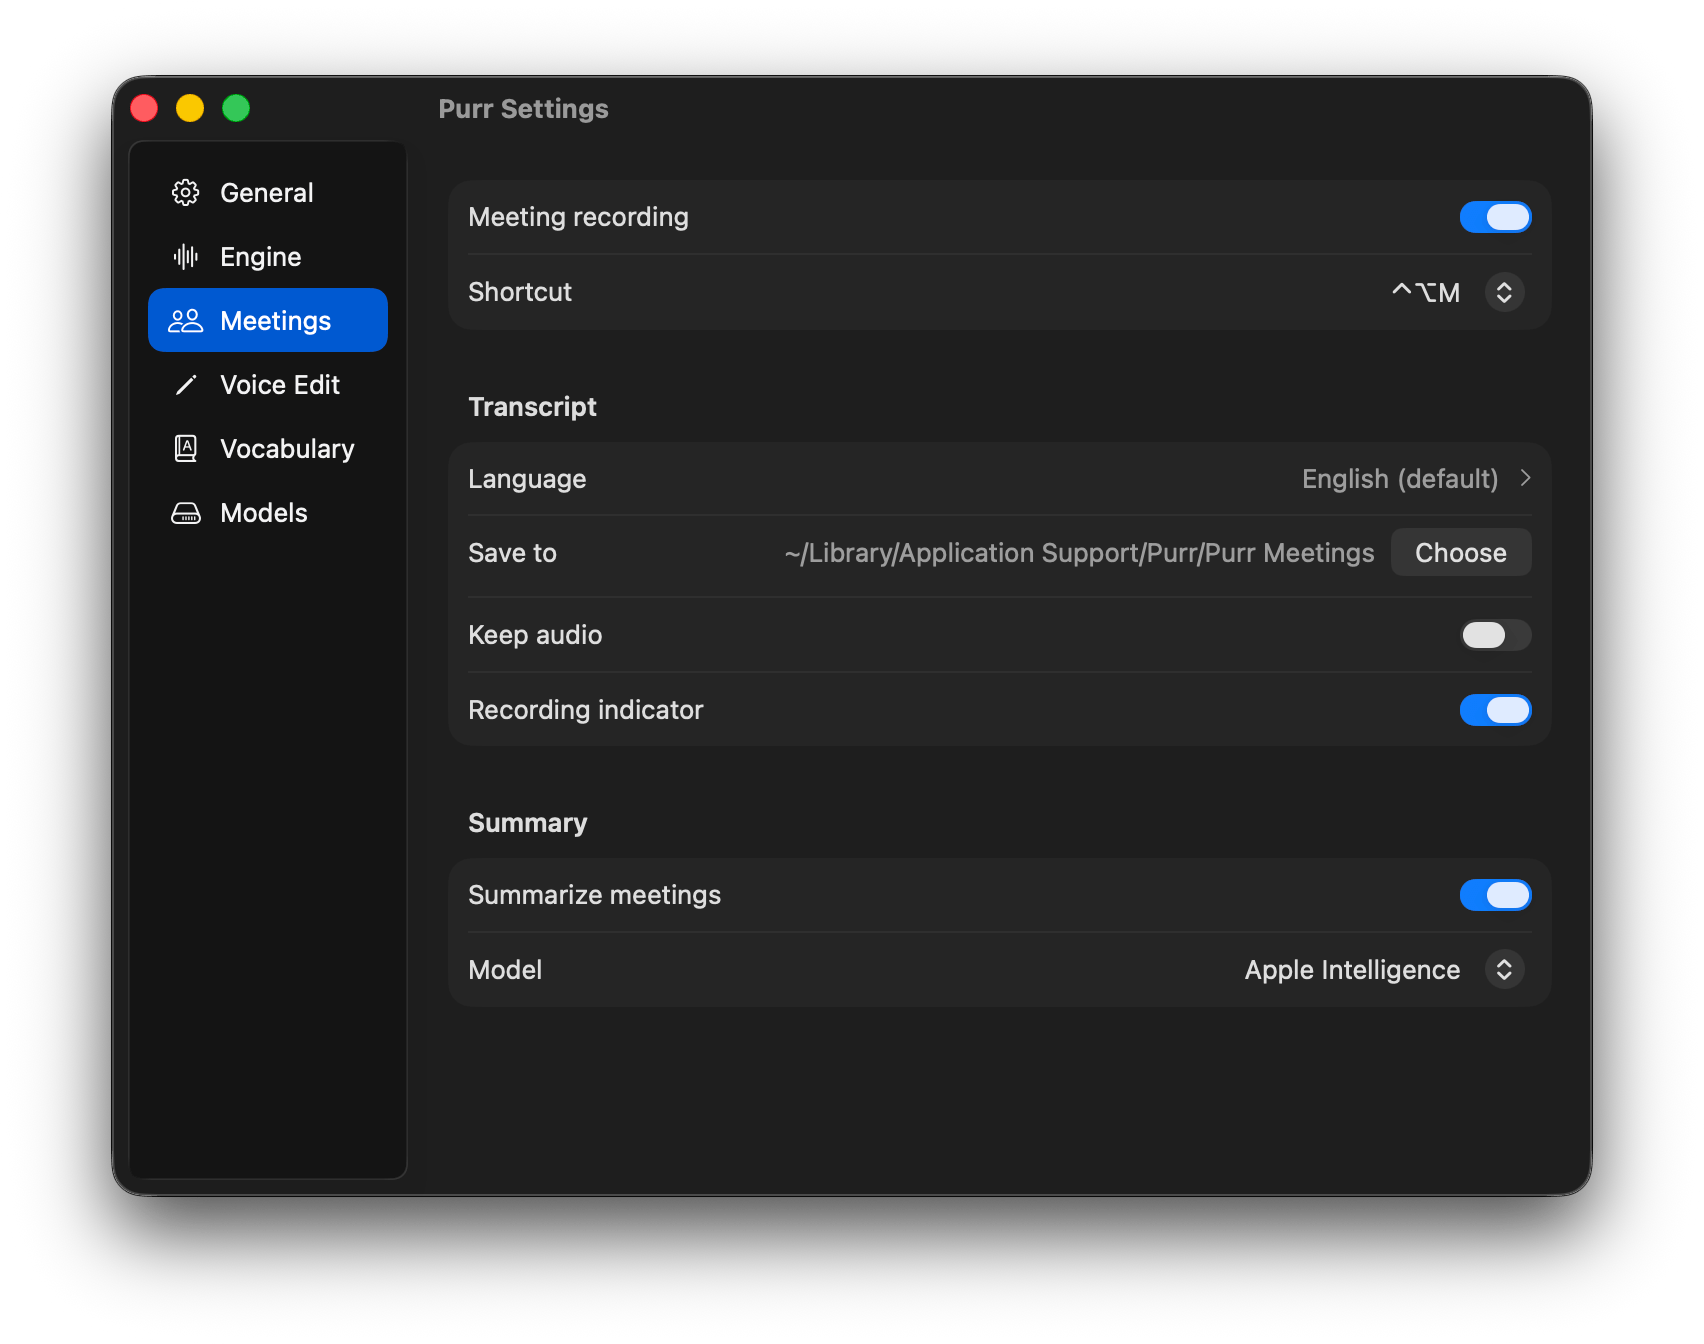
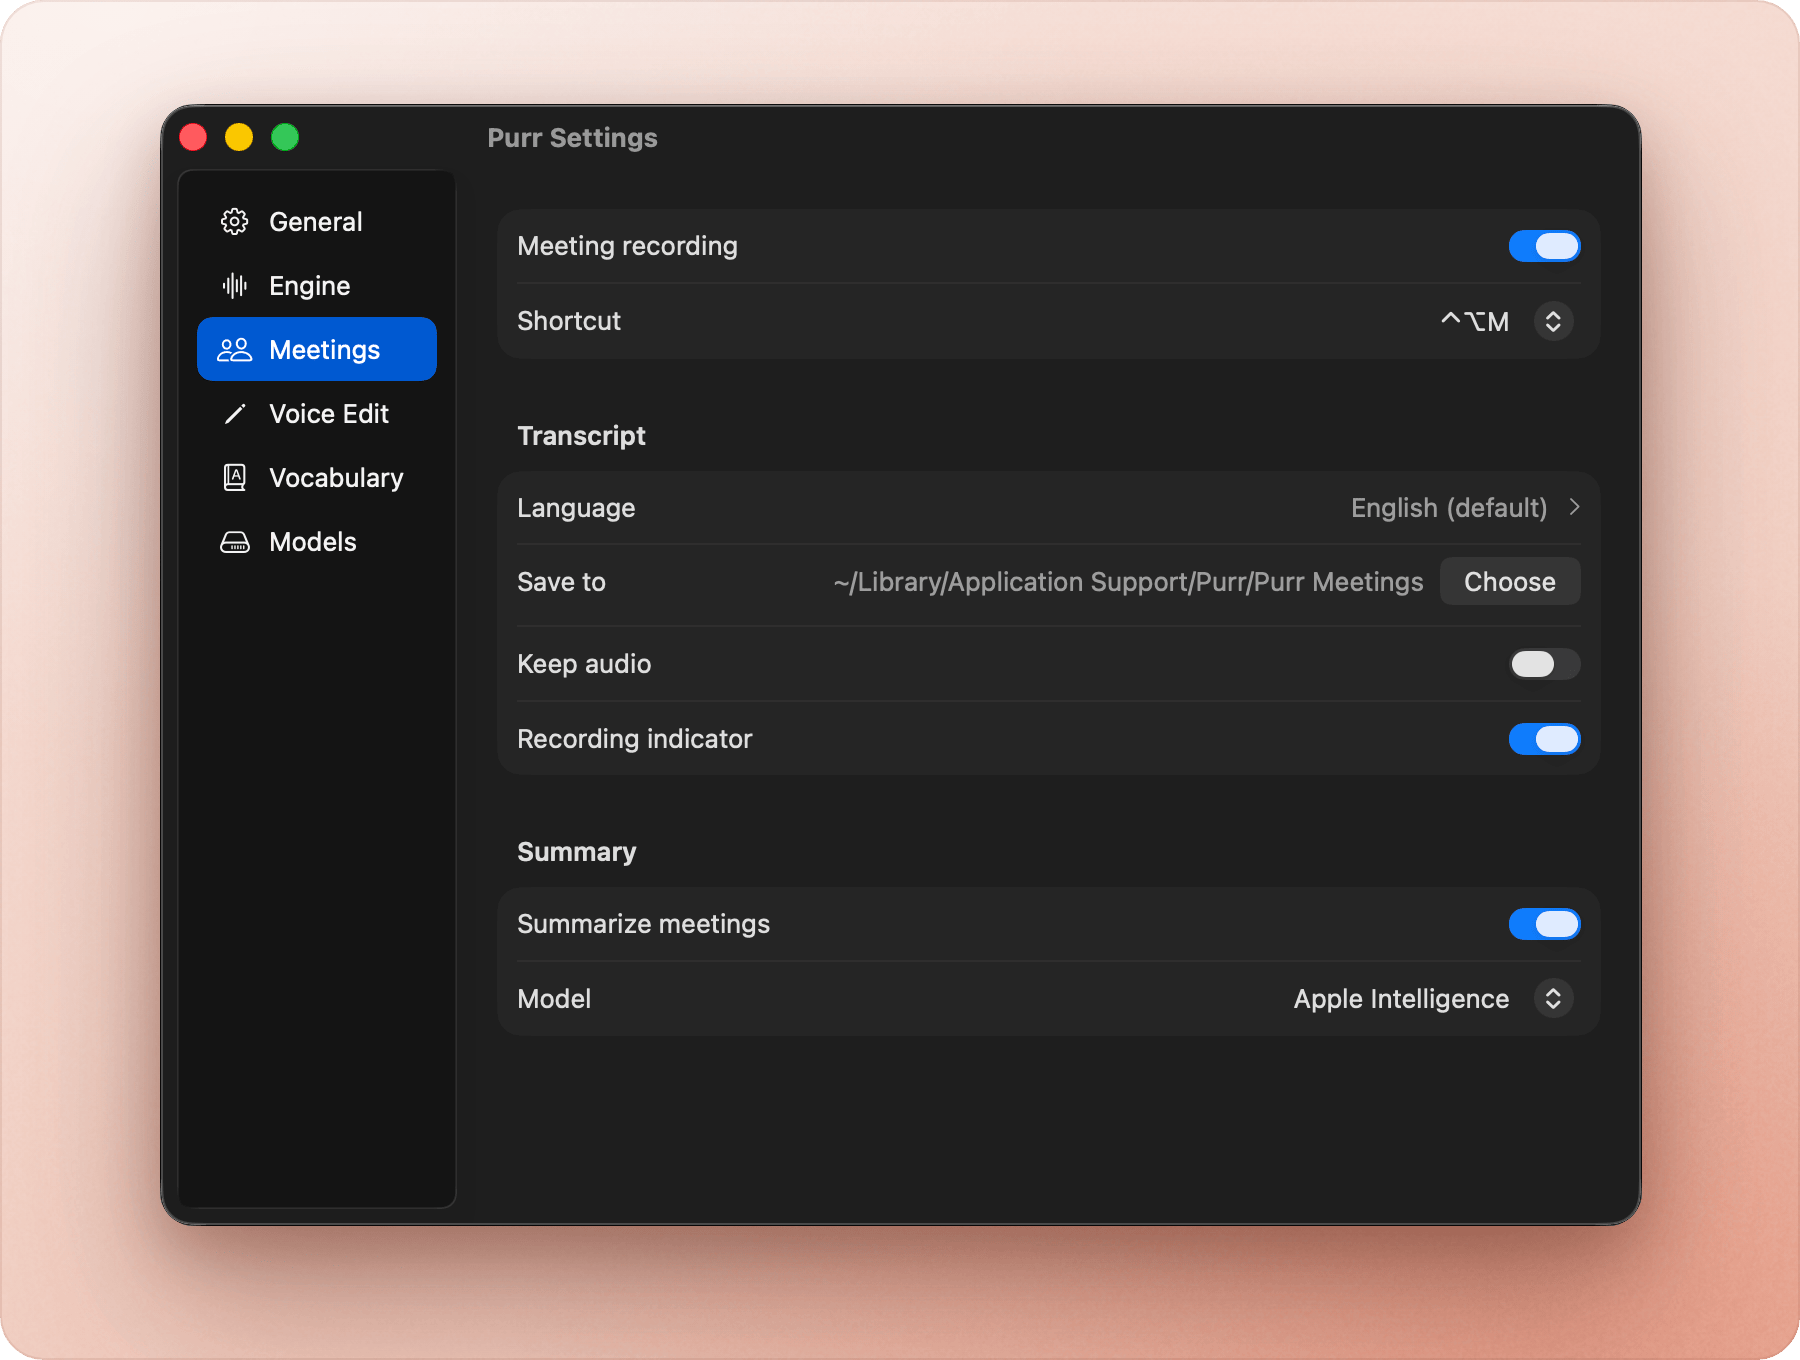
Redesign the README screenshots as framed gradient cards

diff --git a/README.md b/README.md
@@ -26,38 +26,14 @@ Dictation, meeting notes and voice editing that run entirely on your Mac.
 
 ## Screenshots
 
-<table>
-  <tr>
-    <td align="center" width="50%">
-      <img src="Resources/screenshots/setup-engine.png" alt="Setup: choosing Parakeet or Whisper"><br>
-      <sub>Setup: choose a speech engine</sub>
-    </td>
-    <td align="center" width="50%">
-      <img src="Resources/screenshots/setup-permissions.png" alt="Setup: Microphone, Accessibility and System Audio access"><br>
-      <sub>Setup: allow access</sub>
-    </td>
-  </tr>
-  <tr>
-    <td align="center">
-      <img src="Resources/screenshots/settings-general.png" alt="General settings"><br>
-      <sub>General</sub>
-    </td>
-    <td align="center">
-      <img src="Resources/screenshots/settings-meetings.png" alt="Meetings settings"><br>
-      <sub>Meetings</sub>
-    </td>
-  </tr>
-  <tr>
-    <td align="center">
-      <img src="Resources/screenshots/settings-vocabulary.png" alt="Vocabulary settings"><br>
-      <sub>Vocabulary</sub>
-    </td>
-    <td align="center">
-      <img src="Resources/screenshots/settings-models.png" alt="Models settings"><br>
-      <sub>Models</sub>
-    </td>
-  </tr>
-</table>
+<p align="center">
+  <img src="Resources/screenshots/setup-engine.png" width="49%" alt="Setup: choosing Parakeet or Whisper">
+  <img src="Resources/screenshots/setup-permissions.png" width="49%" alt="Setup: Microphone, Accessibility and System Audio access">
+  <img src="Resources/screenshots/settings-general.png" width="49%" alt="General settings">
+  <img src="Resources/screenshots/settings-meetings.png" width="49%" alt="Meetings settings">
+  <img src="Resources/screenshots/settings-vocabulary.png" width="49%" alt="Vocabulary settings">
+  <img src="Resources/screenshots/settings-models.png" width="49%" alt="Models settings">
+</p>
 
 ## Install
 
